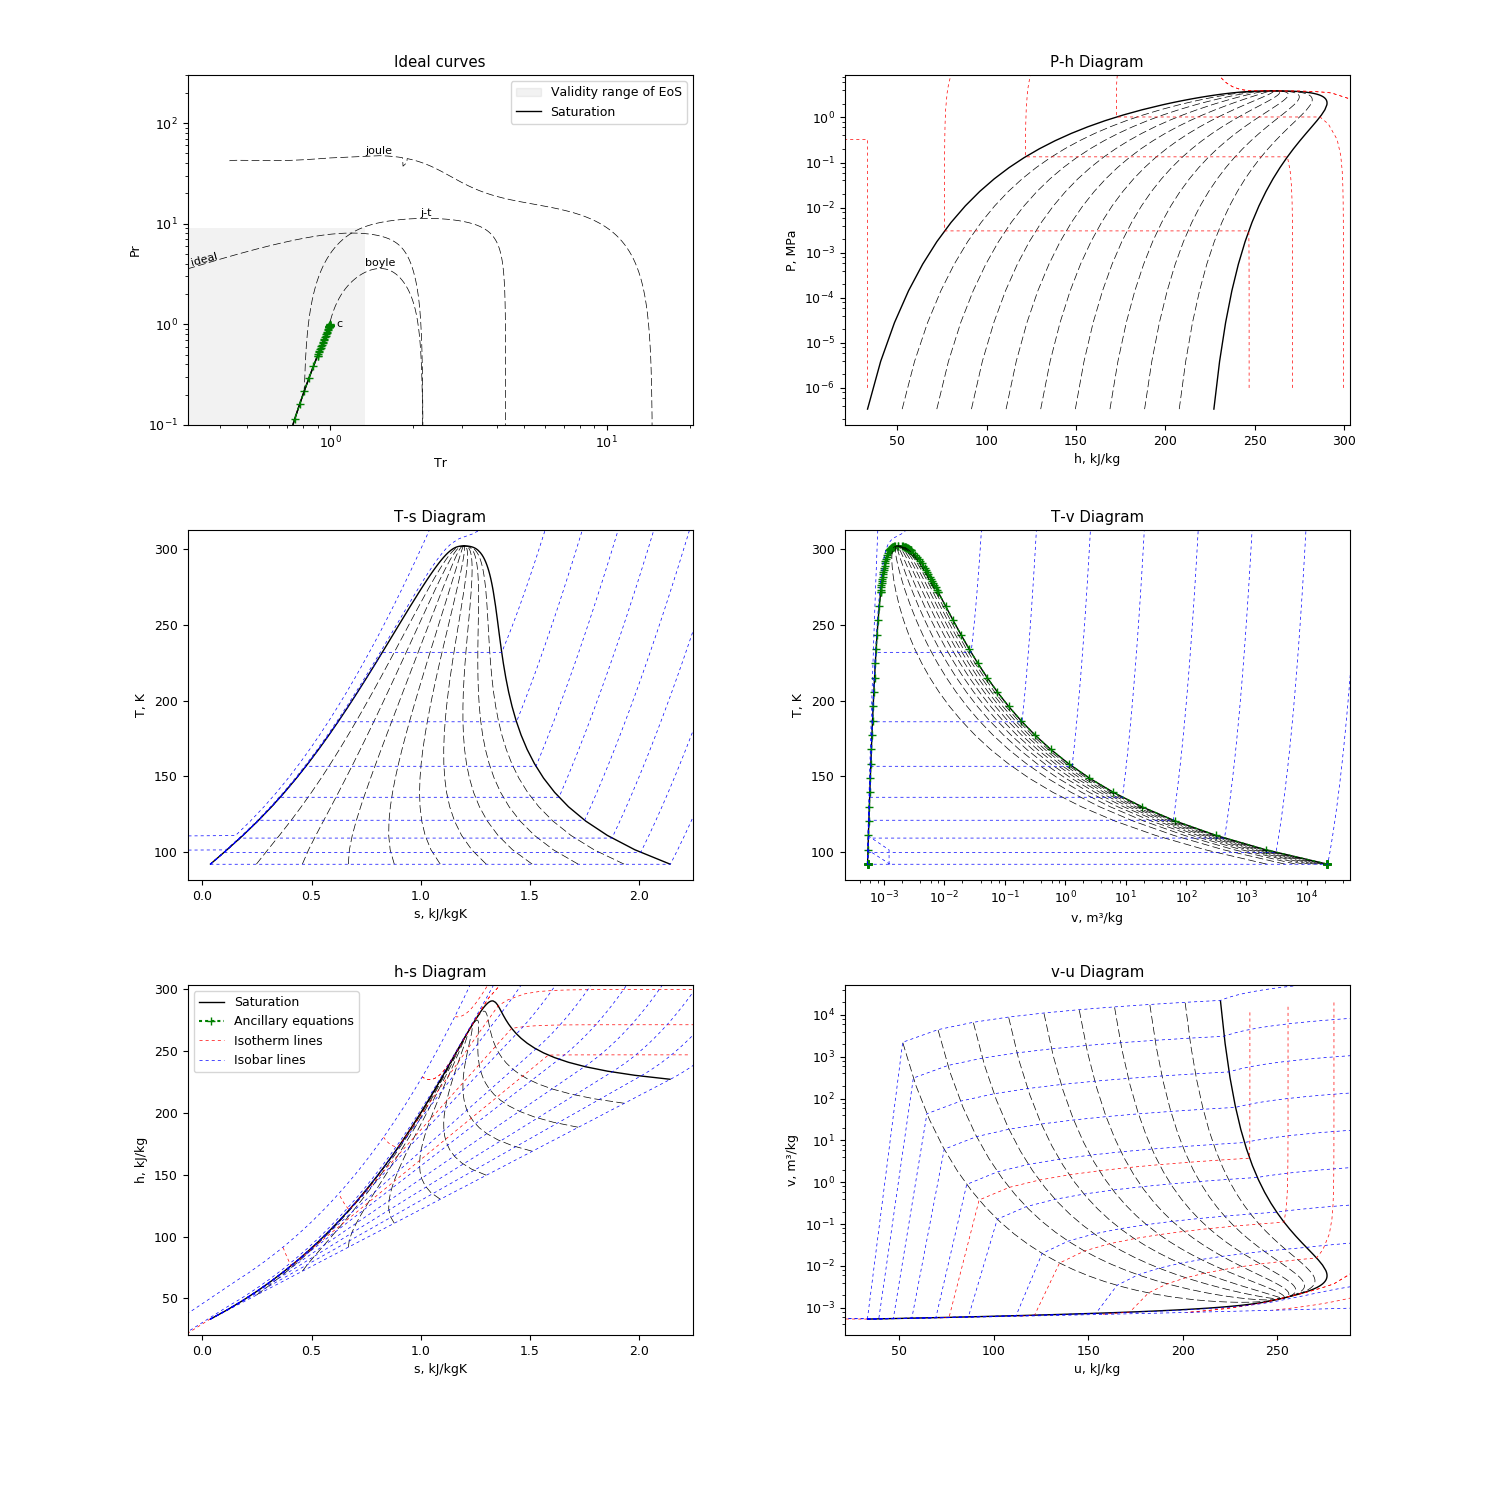
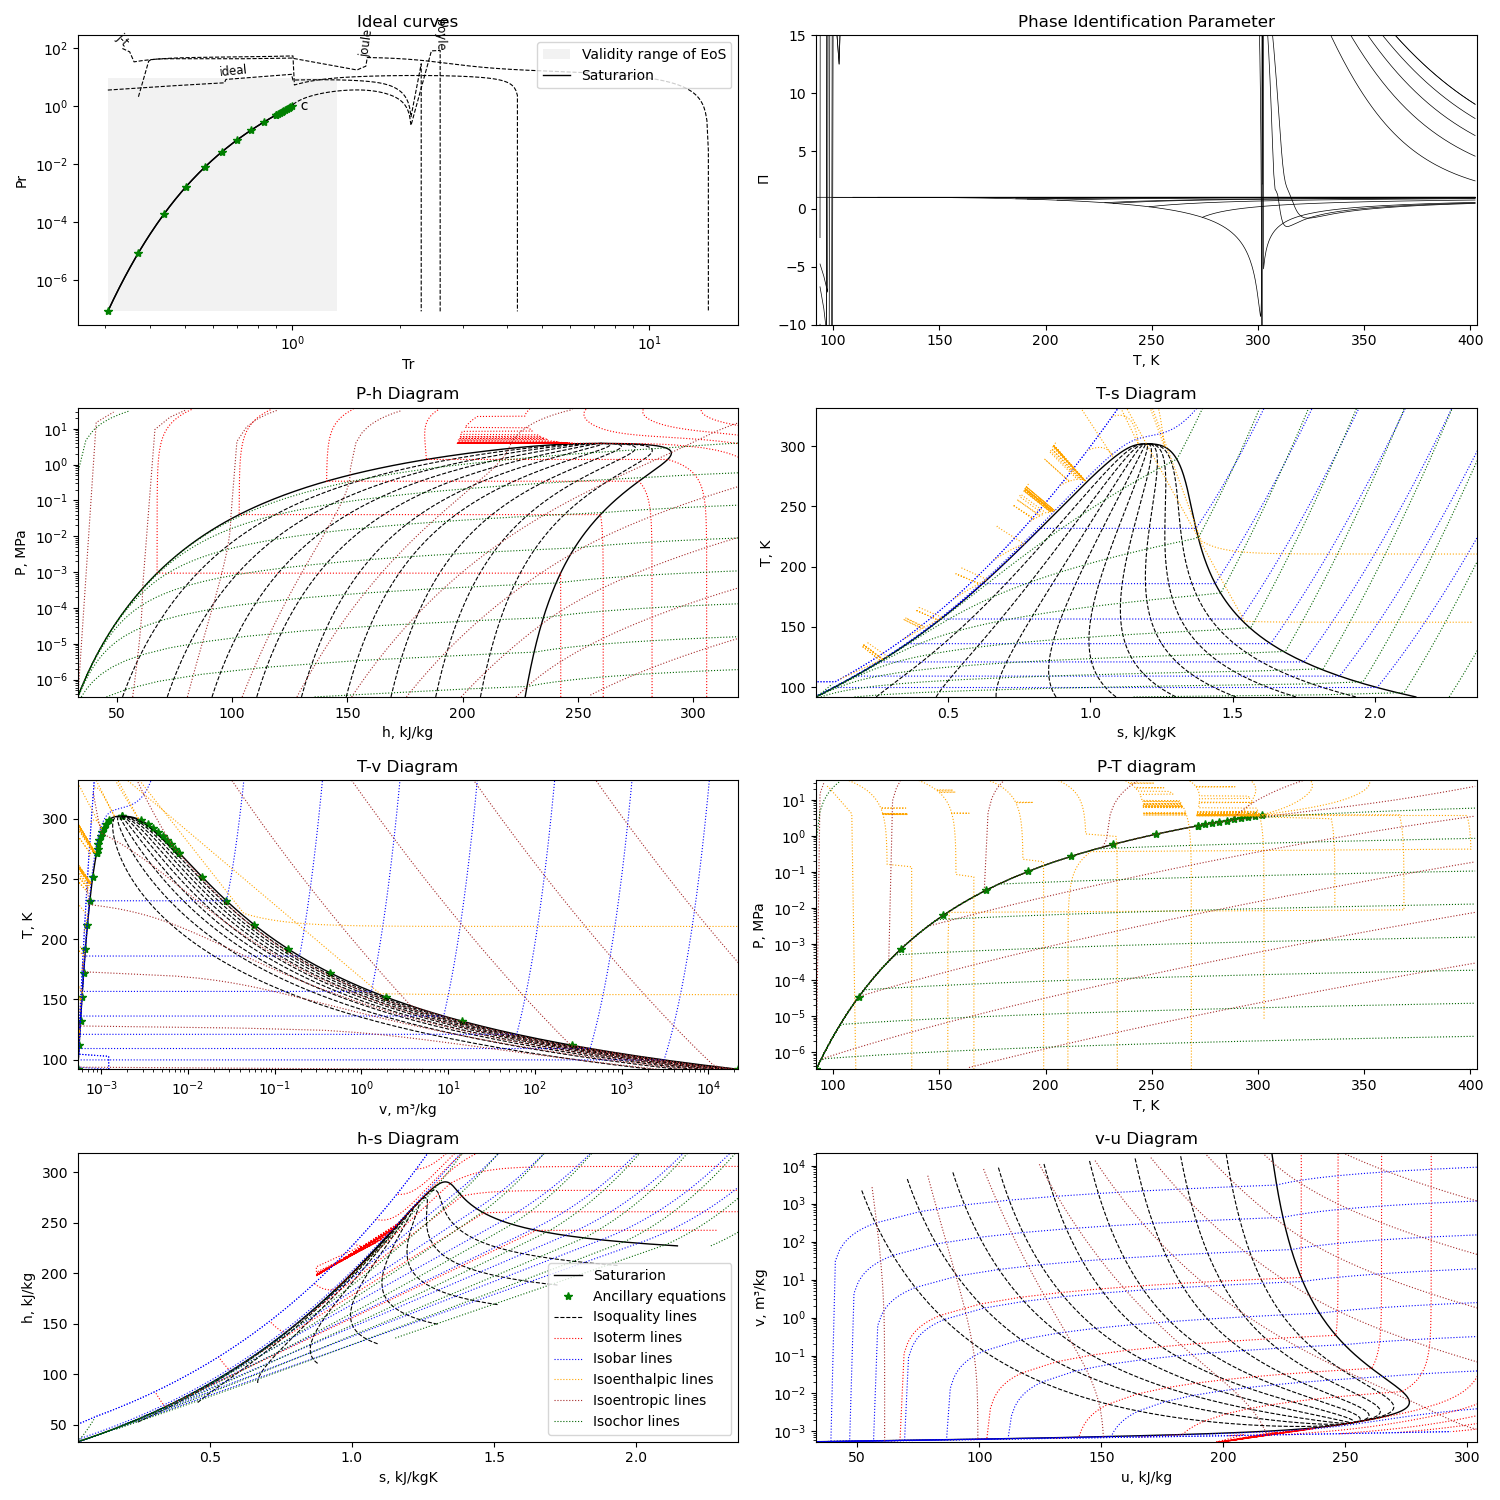
Update refrigerants images for mEoS documentation including PIP plot #1

diff --git a/.script/plotMEoS.py b/.script/plotMEoS.py
@@ -117,15 +117,15 @@ if Tmax > 10*Tc:
     extended = np.logspace(np.log10(Tc), np.log10(Tmax), 10)
 else:
     extended = np.linspace(Tc, Tmax, 5)
-#     extended = np.r_[Tc, Tmax]
+    # extended = np.r_[Tc, Tmax]
 isoT = np.concatenate([
     np.linspace(Tmin, Tc, 5, endpoint=False), extended])
 isoT_kw = {"ls": ":", "color": "red", "lw": 0.8}
 
 # Isobar lines to plot
 isoP = np.logspace(np.log10(Pt.P), np.log10(Pmax), 10)
-isoP_PIP = np.r_[0.1, 0.2, 0.5, 1, 2, 5, fluid.Pc.MPa, 15, 20, 25, 30, 35, 50,
-             100, 200, 500, 1000]*1e6
+isoP_PIP = np.r_[0.1, 0.2, 0.5, 1, 2, 5, fluid.Pc.MPa, 15, 20, 25, 30, 35,
+                 50, 100, 200, 500, 1000]*1e6
 isoP_kw = {"ls": ":", "color": "blue", "lw": 0.8}
 
 # # Isoenthalpic lines to plot
@@ -315,7 +315,7 @@ umax += abs(umax * 0.1)
 smax = max(svap)
 smax += abs(smax * 0.1)
 
-# ax_Ideal.set_ylim(bottom=0.01, top=)
+# ax_Ideal.set_ylim(bottom=1e-6)
 ax_PIP.set_ylim(-10, 15)
 ax_PIP.set_xlim(Tmin, min(2*fluid.Tc, Tmax))
 ax_Ph.set_xlim(Pt.h.kJkg, hmax)
@@ -445,9 +445,15 @@ for P in np.concatenate([isoP, isoP_PIP]):
     if P < fluid.Pc:
         sat_pnt = []
         for x in np.linspace(1, 0.1, 10):
-            sat_pnt.append(fluid(P=P, x=x))
+            if sat_pnt and sat_pnt[-1].status == 1:
+                sat_pnt.append(fluid(T=sat_pnt[-1].T, x=x))
+            else:
+                sat_pnt.append(fluid(P=P, x=x))
         for x in np.linspace(0.1, 0, 11):
-            sat_pnt.append(fluid(P=P, x=x))
+            if sat_pnt and sat_pnt[-1].status == 1:
+                sat_pnt.append(fluid(T=sat_pnt[-1].T, x=x))
+            else:
+                sat_pnt.append(fluid(P=P, x=x))
         sat = True
     else:
         sat = False
@@ -457,10 +463,9 @@ for P in np.concatenate([isoP, isoP_PIP]):
         point = fluid(P=P, T=t)
 
         if point.status == 1:
-#             print(t, point.T, point.v, point.u)
 
-#             if point.rhoM > point._constants["rhomax"]:
-#                 continue
+            # if point.rhoM > point._constants["rhomax"]:
+            #     continue
 
             # Discard point below the melting line
             if fluid._melting:
@@ -479,17 +484,18 @@ for P in np.concatenate([isoP, isoP_PIP]):
                 for p in sat_pnt[::-1]:
                     if p.status == 1:
                         pts.append(p)
-#                         print("SAT", t, p.T, p.v, p.u)
+                        # print("SAT", t, p.T, p.v, p.u, p.x)
                 sat = False
+            # print(t, point.T, point.v, point.u, point.x, point.status)
             pts.append(point)
 
     # Clean triple point when create a loop in isotherm
-#     if P == isoP[0]:
-#         for p in pts:
-#             print(p.u, p.v)
-#         for p in sat_pnt:
-#             print("sat", p.uv)
-#         del pts[0]
+    # if P == isoP[0]:
+    #     for p in pts:
+    #         print(p.u, p.v)
+    #     for p in sat_pnt:
+    #         print("sat", p.uv)
+    #     del pts[0]
 
     h = []
     T = []
@@ -501,8 +507,9 @@ for P in np.concatenate([isoP, isoP_PIP]):
         if p.status == 1:
             if p.x in (0, 1):
                 if not PIP and (p.PIP < 0 or p.PIP > 10):
-                    continue
-                PIP.append(p.PIP)
+                    PIP.append(None)
+                else:
+                    PIP.append(p.PIP)
             else:
                 PIP.append(None)
             h.append(p.h.kJkg)
@@ -760,10 +767,10 @@ for curva in ["ideal", "boyle", "joule-thomson", "joule"]:
     for t in T:
         # Optional limits for ideal curves to avoid false values out of range
 #         if curva in ["ideal", "boyle"]:
-#             if t > 5*fluid.Tc:
+#             if t > 3*fluid.Tc:
 #                 continue
 #         if curva == "joule-thomson":
-#             if t > 8*fluid.Tc:
+#             if t > 4.5*fluid.Tc:
 #                 continue
 
         P = fluid()._IdealCurve(curva, t)

diff --git a/lib/mEoS/D2O.py b/lib/mEoS/D2O.py
@@ -223,8 +223,8 @@ class D2O(MEoS):
                "method": "_thermo0",
                "__name__": "IAPWS (2021)",
                "__doi__": {
-                   "autor": "Kestin, J., Sengers, J.V., Kamgar-Parsi, B., "
-                            "Levelt Sengers, J.M.H.",
+                   "autor": "Huber, M.L., Perkins, R.A., Assael, M.J., "
+                            "Monogenidou, S.A., Hellmann, R., Sengers, J.V.",
                    "title": "New International Formulation for the Thermal "
                             "Conductivity of Heavy Water",
                    "ref": "J. Phys. Chem. Ref. Data 51(1) (2022) 013102",

diff --git a/lib/mEoS/R12.py b/lib/mEoS/R12.py
@@ -135,7 +135,7 @@ class R12(MEoS):
         "t": [0.57, 0.72, 0.89, 1.07, 1.25]}
     _vapor_Density = {
         "eq": 2,
-        "n": [-3.153, -6.4734, -17.346, -15.918e2, -32.492, -120.72],
+        "n": [-3.153, -6.4734, -17.346, -15.918, -32.492, -120.72],
         "t": [0.418, 1.32, 3.3, 6.6, 7.0, 15.0]}
 
     thermo0 = {"__name__": "Krauss (1989)",

diff --git a/lib/mEoS/C5F12.py b/lib/mEoS/C5F12.py
@@ -61,7 +61,7 @@ class C5F12(MEoS):
         "cp": CP1,
         "ref": "NBP",
 
-        "Tmin": Tt, "Tmax": 500, "Pmax": 10000,
+        "Tmin": Tt, "Tmax": 500, "Pmax": 100000,
 
         "nr1": [0.036359237, 1.1222855, -0.63721964, -1.3599906, 0.24995429],
         "d1": [4, 1, 1, 2, 3],

diff --git a/lib/mEoS/R13.py b/lib/mEoS/R13.py
@@ -153,3 +153,10 @@ class R13(MEoS):
 
     _viscosity = (trnECS, )
     _thermal = (trnECS, )
+
+
+if __name__ == "__main__":
+    st = R13(P=256, T=92)
+    print(st.status, st.msg)
+    print(st.P)
+    print(st.v, st.u)

diff --git a/lib/mEoS/R13I1.py b/lib/mEoS/R13I1.py
@@ -22,7 +22,7 @@ from unittest import TestCase
 
 from lib import unidades
 from lib.meos import MEoS
-from lib.mEoS import R134a
+from lib.mEoS.R134a import R134a
 
 
 class R13I1(MEoS):
